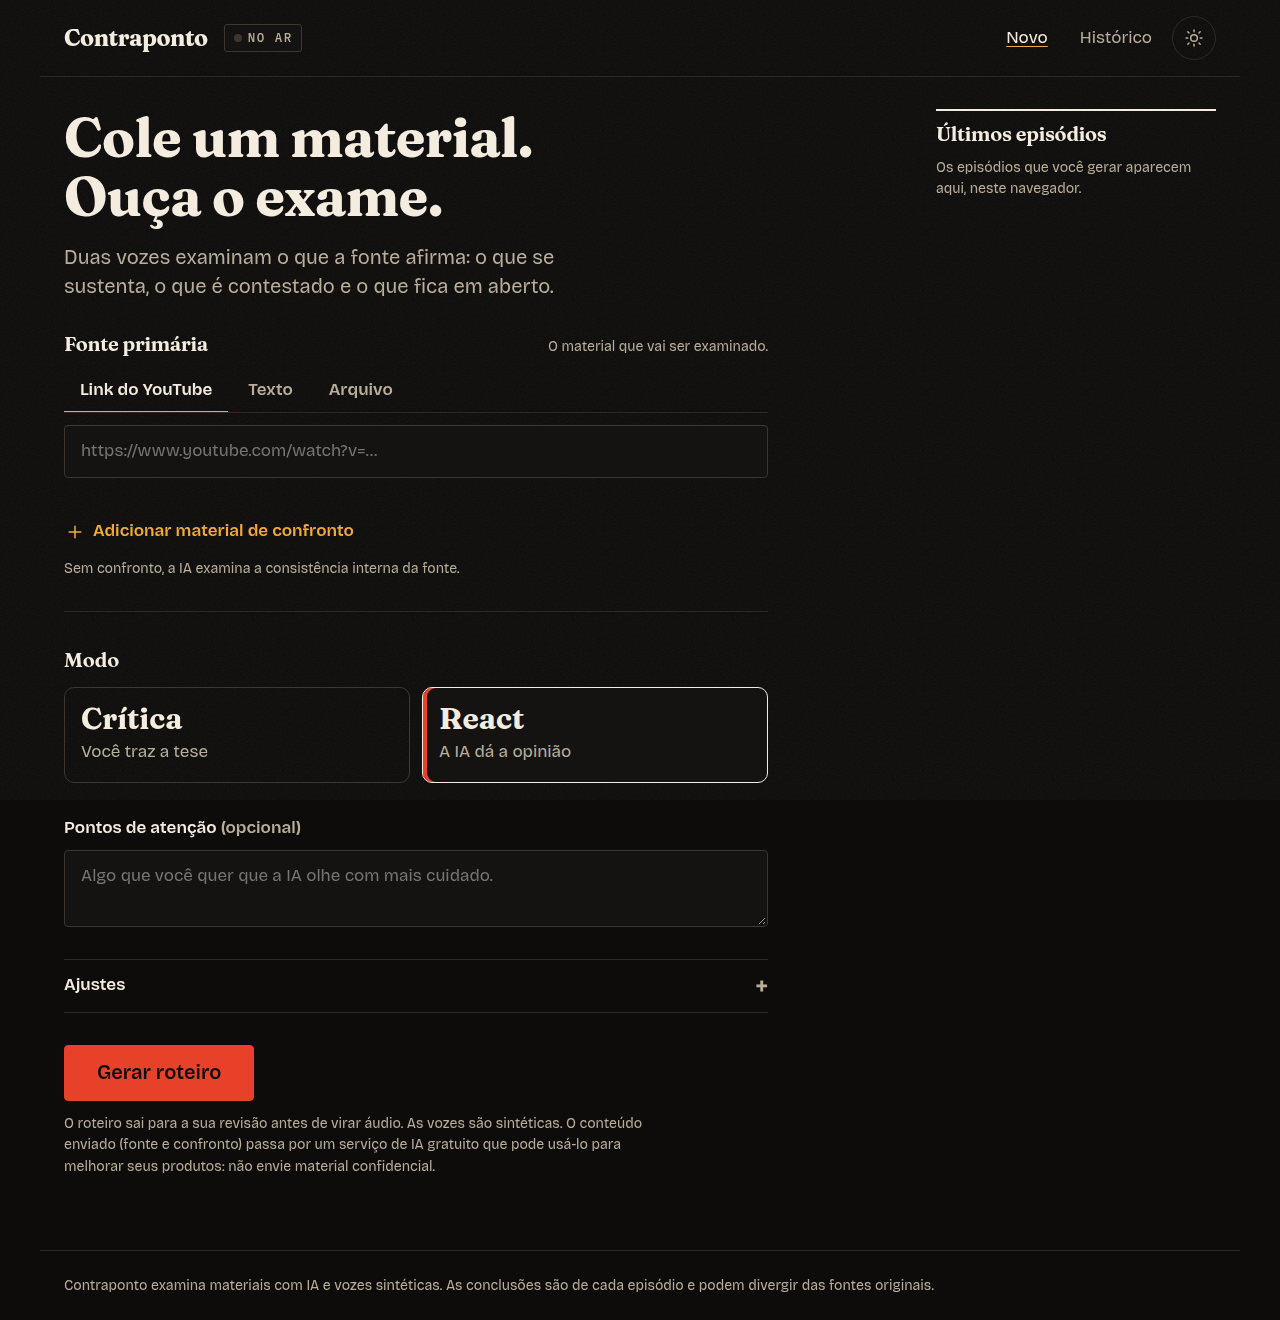
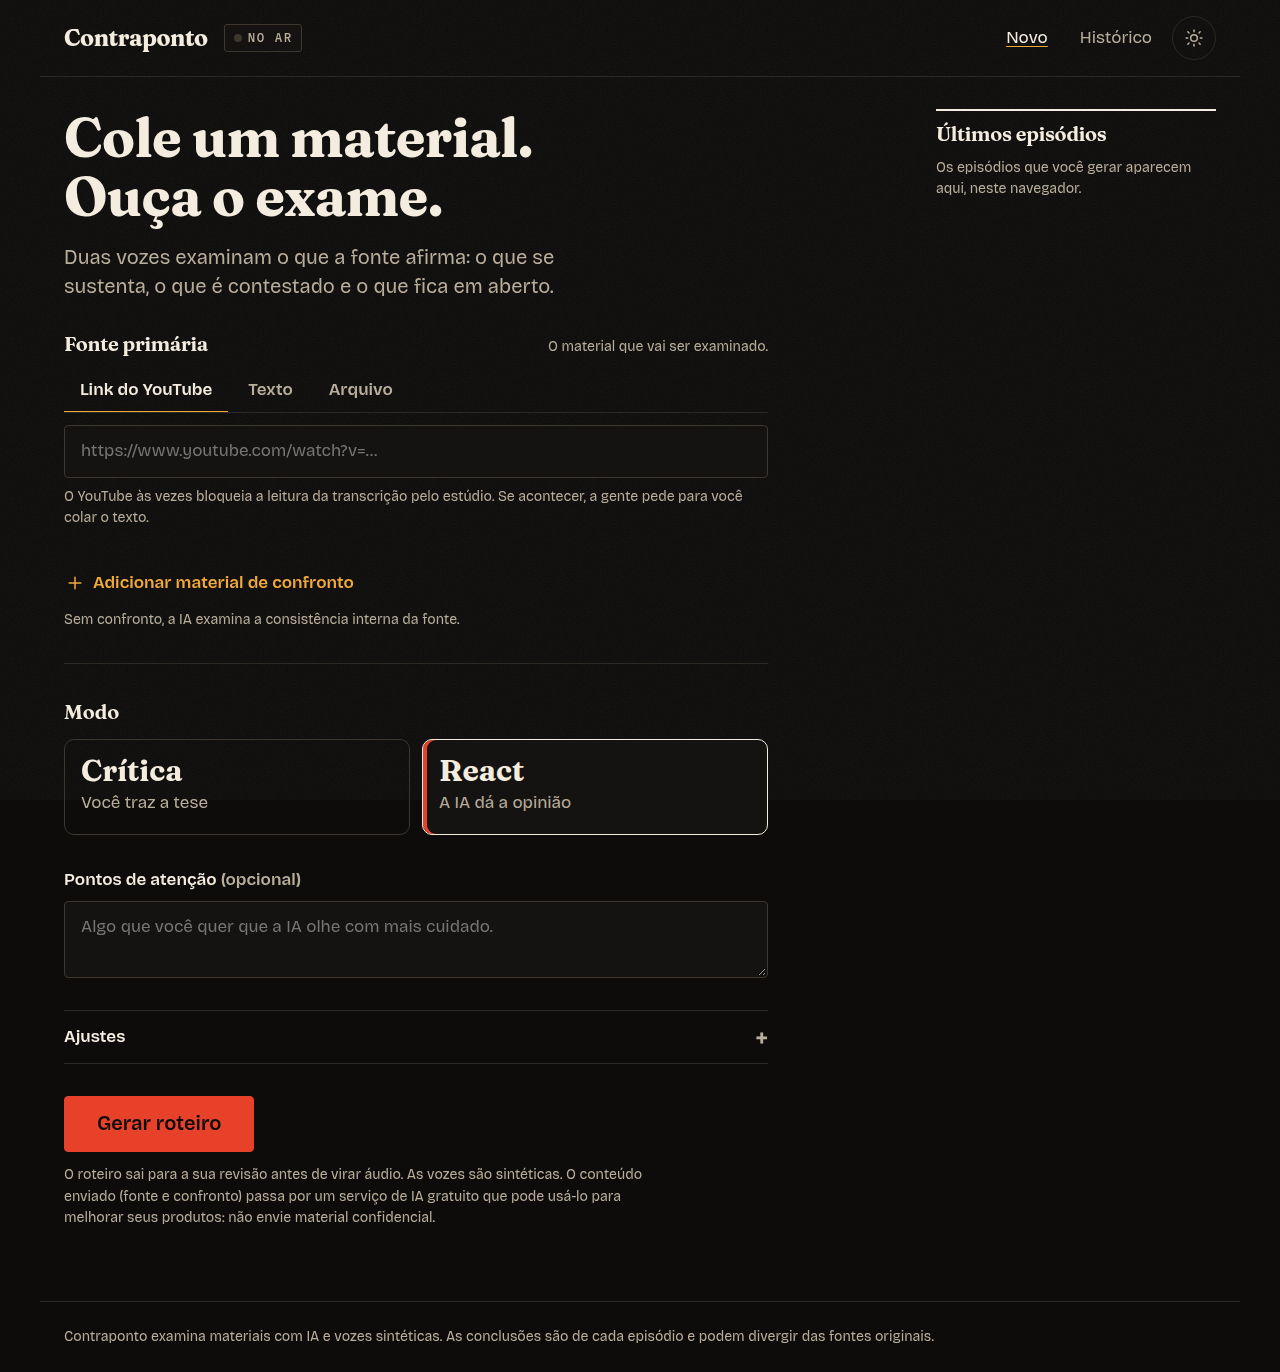
feat(web): warn about YouTube blocking on the YouTube tab and explain the paste fallback; docs: known limits

diff --git a/apps/web/src/routes/Studio.tsx b/apps/web/src/routes/Studio.tsx
@@ -190,9 +190,15 @@ function PasteFallback({ id, code, message }: { id: string; code: string; messag
           {error && <p className="field__error" role="alert">{error}</p>}
         </>
       ) : (
-        <div className="actions-row">
-          <Link className="btn btn--primary" to="/">Voltar e colar o texto</Link>
-        </div>
+        <>
+          <p className="dim">
+            No YouTube, abra o vídeo, toque em “…mais” na descrição e depois em “Mostrar transcrição”. Copie o texto e
+            cole na aba Texto da tela inicial.
+          </p>
+          <div className="actions-row">
+            <Link className="btn btn--primary" to="/">Voltar e colar o texto</Link>
+          </div>
+        </>
       )}
     </section>
   );

diff --git a/apps/web/src/components/SourceField.tsx b/apps/web/src/components/SourceField.tsx
@@ -109,6 +109,10 @@ export function SourceField({ label, draft, onChange, disabled, textPlaceholder,
               placeholder="https://www.youtube.com/watch?v=…" value={draft.url} disabled={disabled}
               aria-invalid={visibleError ? true : undefined} aria-describedby={visibleError ? errId : undefined}
               onChange={(e) => onChange({ ...draft, url: e.target.value })} onBlur={() => setTouched(true)} />
+            <p className="field__hint">
+              O YouTube às vezes bloqueia a leitura da transcrição pelo estúdio. Se acontecer, a gente pede para você colar o
+              texto.
+            </p>
           </>
         )}
         {draft.tab === "text" && (

diff --git a/docs/QUALITY-REPORT.md b/docs/QUALITY-REPORT.md
@@ -25,8 +25,13 @@ servidor. Todos passaram pelo validador; verificação conferida item a item man
 | Tempo (meta < 5 min para 5 min de episódio) | 2–3 min para episódios de 3 min no plano free do Render; 5 min ainda não medido |
 | `verificacao.md` e `fontes.md` | gerados e corretos |
 
-Pendências: ouvir os MP3 (pronúncia, números lidos em voz alta), medir um episódio de 5 min, testar ingestão do
-YouTube a partir do IP do Render.
+**YouTube a partir do servidor (22/11/2026):** um link real do YouTube enviado ao backend no Render resultou em
+`TRANSCRIPT_UNAVAILABLE` — o YouTube bloqueia a leitura de transcrições a partir do IP do Render (risco já previsto no
+PRD). O fallback funciona: a tela "Esse vídeo não deixou a gente ler a transcrição" aparece no site e o usuário cola o
+texto. A aba "Link do YouTube" agora avisa isso de antemão. A partir de uma máquina residencial (`make dev`), a
+ingestão do YouTube funciona (testado localmente).
+
+Pendências: ouvir os MP3 (pronúncia, números lidos em voz alta), medir um episódio de 5 min.
 
 ## O que já foi verificado com material real (LLM simulado)
 

diff --git a/docs/07-TESTES-E-QUALIDADE.md b/docs/07-TESTES-E-QUALIDADE.md
@@ -85,7 +85,7 @@ Marque somente após **executar** cada item.
 - [x] Backend no ar com `GET /api/health` ok (Render, não Space — ver `docs/06 §4R`)
 - [x] Fluxo real: fonte primária + material de confronto → roteiro com verificação → revisão → áudio → MP3 baixado
 - [x] Fluxo real: só fonte primária (sem confronto) → exame interno → roteiro → áudio
-- [x] Fallback "cole o texto" funcionando quando a transcrição de qualquer fonte falha
+- [x] Fallback "cole o texto" funcionando quando a transcrição de qualquer fonte falha (confirmado também no site publicado: o YouTube bloqueia o IP do Render)
 - [ ] **Download** do MP3 e da verificação funciona no Brave desktop
 - [ ] **Compartilhar**: Web Share no Android (ou fallback), copiar link, página `/s/{id}` abre com player e veredito
 - [x] Axe sem violações sérias; navegação por teclado completa; selos de status com rótulo de texto

diff --git a/README.md b/README.md
@@ -37,6 +37,13 @@ possível (`make deploy-api`), mas desde 22/11/2026 exige assinatura PRO para Do
 6. **Gere o áudio** e acompanhe o progresso.
 7. **Baixe o MP3**, o roteiro, a tabela de verificação e as fontes, ou **compartilhe** o link do episódio.
 
+## Limites conhecidos
+
+- **YouTube no site publicado:** o YouTube bloqueia a leitura de transcrições a partir do servidor (Render). No site,
+  use a aba Texto (cole a transcrição) ou rode localmente com `make dev`, onde o link do YouTube funciona.
+- **Plano gratuito:** o backend dorme após 15 min sem uso (~1 min para acordar) e os episódios somem a cada reinício
+  ou após 24 h. Baixe o MP3 para guardar.
+
 ## Rodando localmente
 
 ```bash
